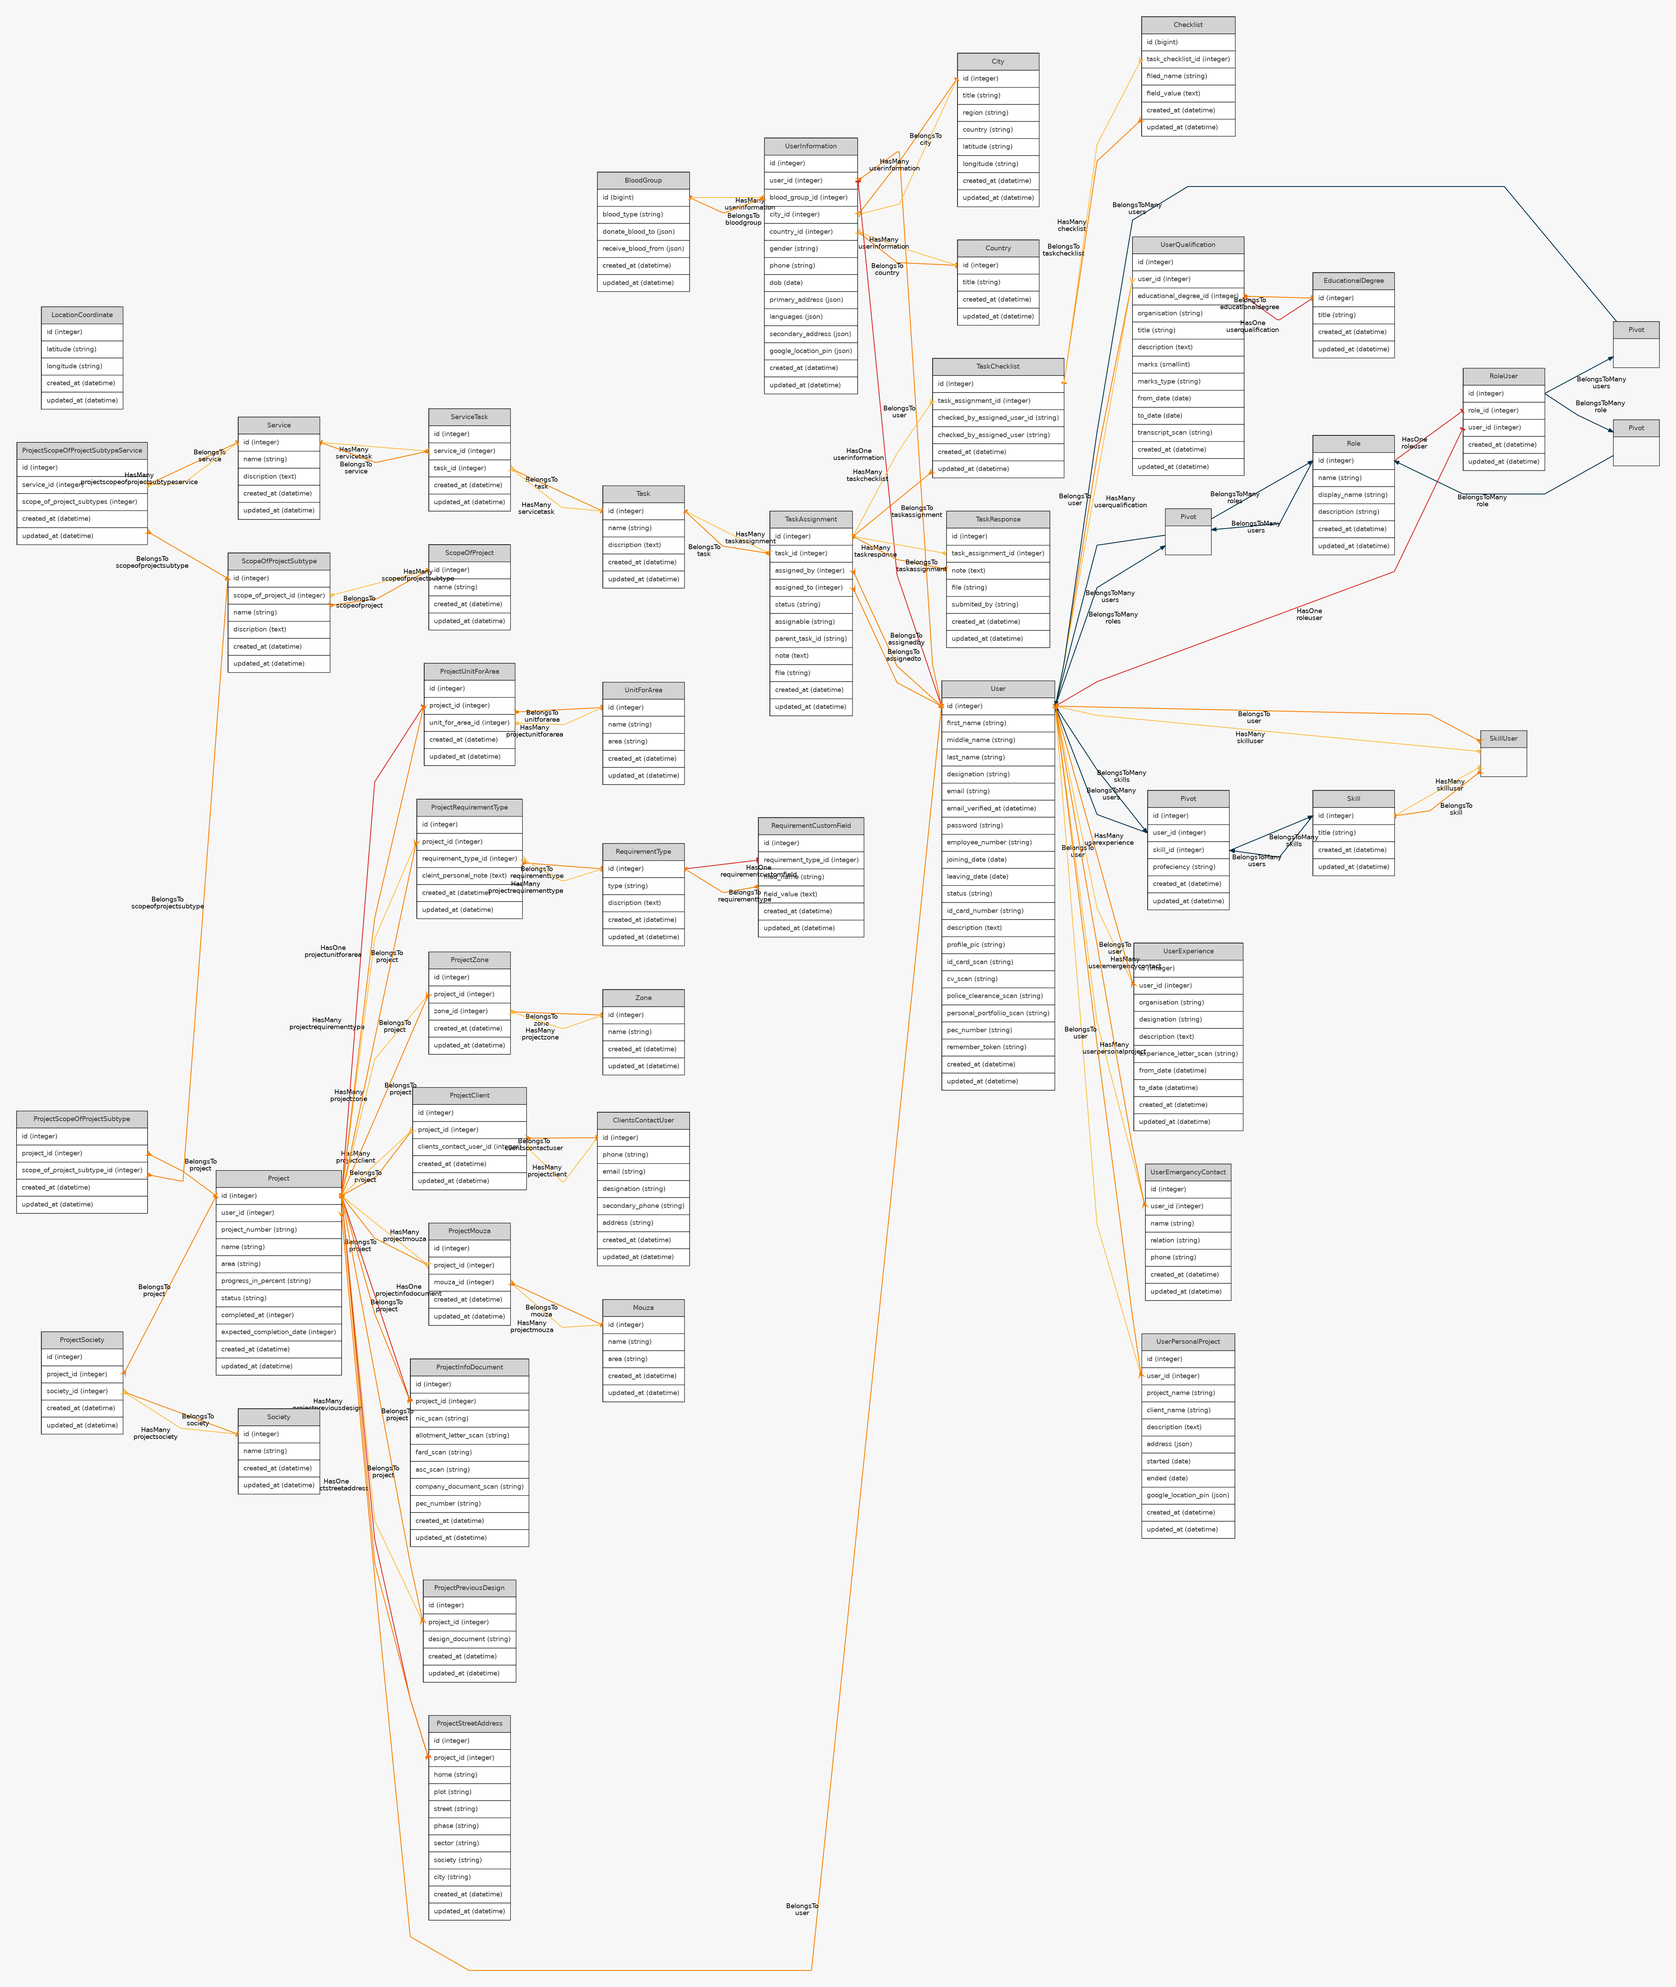
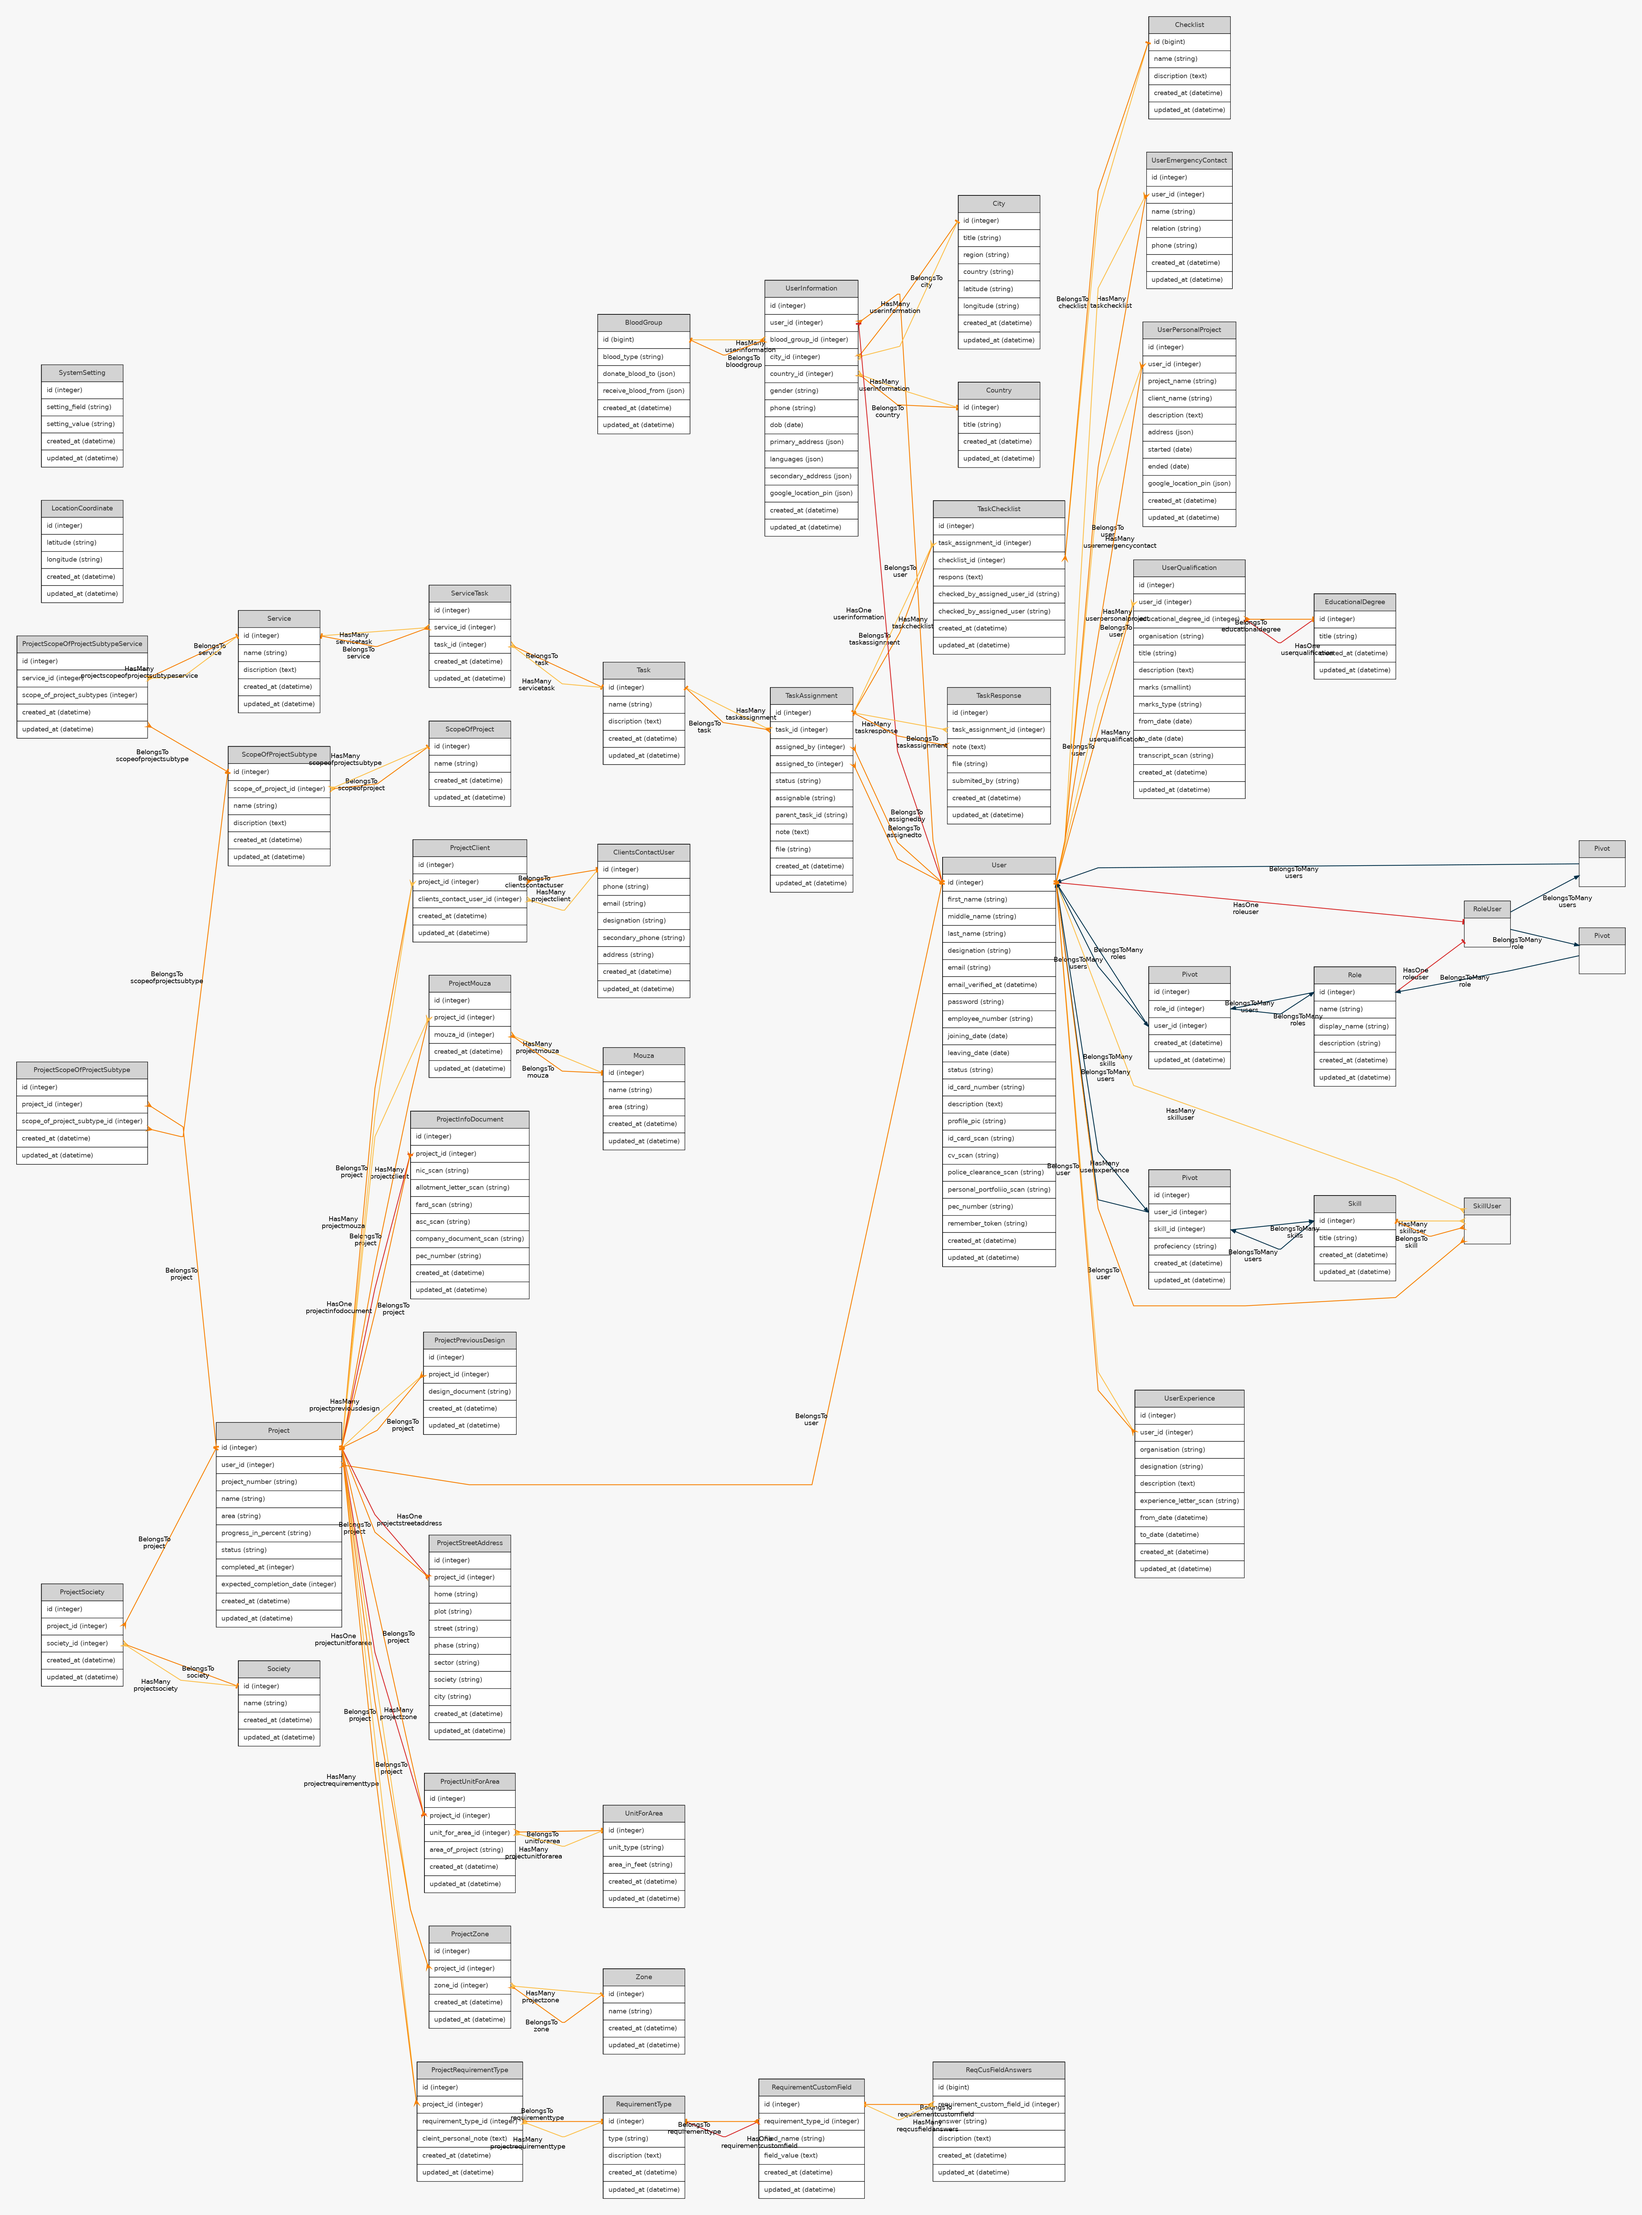
some small fixes

diff --git a/app/Http/Controllers/Admin/Projects/NewProjectController.php b/app/Http/Controllers/Admin/Projects/NewProjectController.php
@@ -1,0 +1,38 @@
+<?php
+
+namespace App\Http\Controllers\Admin\Projects;
+use Illuminate\Http\Request;
+use App\Http\Controllers\Controller;
+use Illuminate\Support\Facades\Auth;
+use Illuminate\Support\Facades\DB;
+use Validator,Redirect,Response;
+use Carbon\Carbon;
+use DataTables;
+
+class NewProjectController extends Controller
+{
+    /**
+     * Create a new controller instance.
+     *
+     * @return void
+     */
+    public function __construct()
+    {
+        $this->middleware('auth');
+    }
+
+    /**
+     * Show the application dashboard.
+     *
+     * @return \Illuminate\Contracts\Support\Renderable
+     */
+    public function index()
+    {
+        Return view('admin_dashboard.project.index');
+    }
+    public function newProject()
+    {
+        Return view('admin_dashboard.project.newproject');
+    }
+
+}

diff --git a/database/migrations/2020_08_13_100923_create_req_cus_field_answers_table.php b/database/migrations/2020_08_13_100923_create_req_cus_field_answers_table.php
@@ -1,0 +1,34 @@
+<?php
+
+use Illuminate\Database\Migrations\Migration;
+use Illuminate\Database\Schema\Blueprint;
+use Illuminate\Support\Facades\Schema;
+
+class CreateReqCusFieldAnswersTable extends Migration
+{
+    /**
+     * Run the migrations.
+     *
+     * @return void
+     */
+    public function up()
+    {
+        Schema::create('req_cus_field_answers', function (Blueprint $table) {
+            $table->id();
+            $table->unsignedInteger('requirement_custom_field_id');
+            $table->string('answer', 255);
+            $table->text('discription')->nullable();
+            $table->timestamps();
+        });
+    }
+
+    /**
+     * Reverse the migrations.
+     *
+     * @return void
+     */
+    public function down()
+    {
+        Schema::dropIfExists('req_cus_field_answers');
+    }
+}

diff --git a/routes/web.php b/routes/web.php
@@ -27,8 +27,8 @@ Route::group(['middleware'=>'auth'], function () {
             
 
                 Route::group(['prefix' => 'projecttab','as'=>'projecttab.'], function () {
-                    Route::get('/', ['as' => 'index', 'uses' => 'Admin\Projects\HomeController@index']);
-                    Route::get('newproject', ['as' => 'newproject', 'uses' => 'Admin\Projects\HomeController@newProject']);
+                    Route::get('/', ['as' => 'index', 'uses' => 'Admin\Projects\NewProjectController@index']);
+                    Route::get('newproject', ['as' => 'newproject', 'uses' => 'Admin\Projects\NewProjectController@newProject']);
                 });
 
                 Route::group(['prefix' => 'tasks','as'=>'tasks.'], function () {

diff --git a/app/Http/Controllers/Admin/Projects/HomeController.php b/app/Http/Controllers/Admin/Projects/HomeController.php
@@ -3,6 +3,11 @@
 namespace App\Http\Controllers\Admin\Projects;
 use Illuminate\Http\Request;
 use App\Http\Controllers\Controller;
+use Illuminate\Support\Facades\Auth;
+use Illuminate\Support\Facades\DB;
+use Validator,Redirect,Response;
+use Carbon\Carbon;
+use DataTables;
 
 class HomeController extends Controller
 {
@@ -21,13 +26,5 @@ class HomeController extends Controller
      *
      * @return \Illuminate\Contracts\Support\Renderable
      */
-    public function index()
-    {
-        Return view('admin_dashboard.project.index');
-    }
-    public function newProject()
-    {
-        Return view('admin_dashboard.project.newproject');
-    }
 
 }

diff --git a/database/migrations/2020_07_14_095947_create_task_checklists_table.php b/database/migrations/2020_07_14_095947_create_task_checklists_table.php
@@ -16,6 +16,8 @@ class CreateTaskChecklistsTable extends Migration
         Schema::create('task_checklists', function (Blueprint $table) {
             $table->increments('id');
             $table->unsignedInteger('task_assignment_id');
+            $table->unsignedInteger('checklist_id');
+            $table->text('respons')->nullable();
             $table->string('checked_by_assigned_user_id')->nullable();
             $table->enum('checked_by_assigned_user', ['yes', 'no'])->default('no');
             $table->timestamps();

diff --git a/database/migrations/2020_07_16_080741_create_checklists_table.php b/database/migrations/2020_07_16_080741_create_checklists_table.php
@@ -15,9 +15,8 @@ class CreateChecklistsTable extends Migration
     {
         Schema::create('checklists', function (Blueprint $table) {
             $table->id();
-            $table->unsignedInteger('task_checklist_id');
-            $table->string('filed_name', 255);
-            $table->text('field_value')->nullable();
+            $table->string('name', 255);
+            $table->text('discription')->nullable();
             $table->timestamps();
         });
     }

diff --git a/app/TaskChecklist.php b/app/TaskChecklist.php
@@ -8,10 +8,10 @@ class TaskChecklist extends Model
 {
     public function taskassignment()
     {
-        return $this->belongsTo('App\TaskAssignment');
+        return $this->belongsTo('App\TaskAssignment','task_assignment_id');
     }
         public function checklist()
     {
-        return $this->hasMany('App\Checklist');
+        return $this->belongsTo('App\Checklist','checklist_id');
     }
 }

diff --git a/app/ReqCusFieldAnswers.php b/app/ReqCusFieldAnswers.php
@@ -1,0 +1,14 @@
+<?php
+
+namespace App;
+
+use Illuminate\Database\Eloquent\Model;
+
+class ReqCusFieldAnswers extends Model
+{
+    public function requirementcustomfield()
+    {
+        return $this->belongsTo('App\RequirementCustomField', 'requirement_custom_field_id');
+    }
+
+}

diff --git a/app/RequirementCustomField.php b/app/RequirementCustomField.php
@@ -10,4 +10,9 @@ class RequirementCustomField extends Model
     {
         return $this->belongsTo('App\RequirementType', 'requirement_type_id');
     }
+
+    public function reqcusfieldanswers()
+    {
+        return $this->hasMany('App\ReqCusFieldAnswers');
+    }
 }

diff --git a/app/Checklist.php b/app/Checklist.php
@@ -8,6 +8,6 @@ class Checklist extends Model
 {
     public function taskchecklist()
     {
-        return $this->belongsTo('App\TaskChecklist');
+        return $this->hasMany('App\TaskChecklist');
     }
 }
